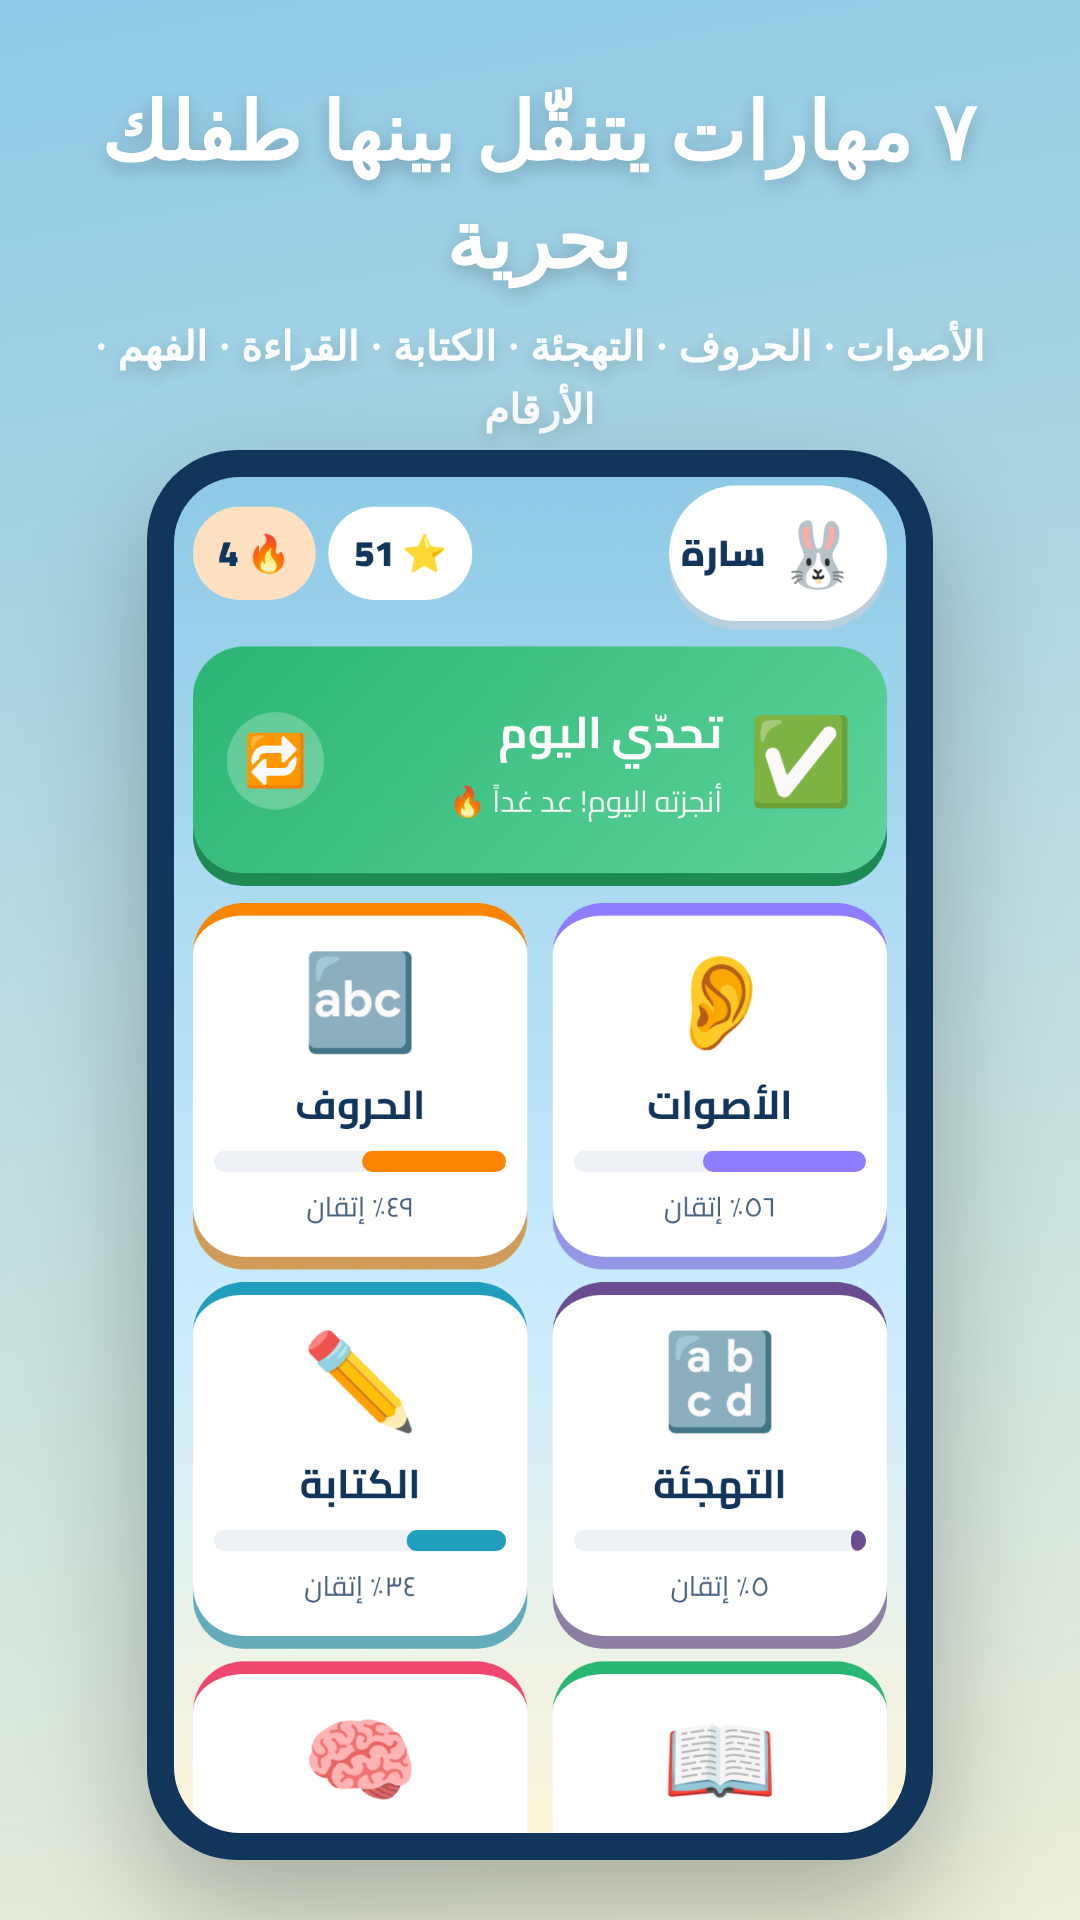
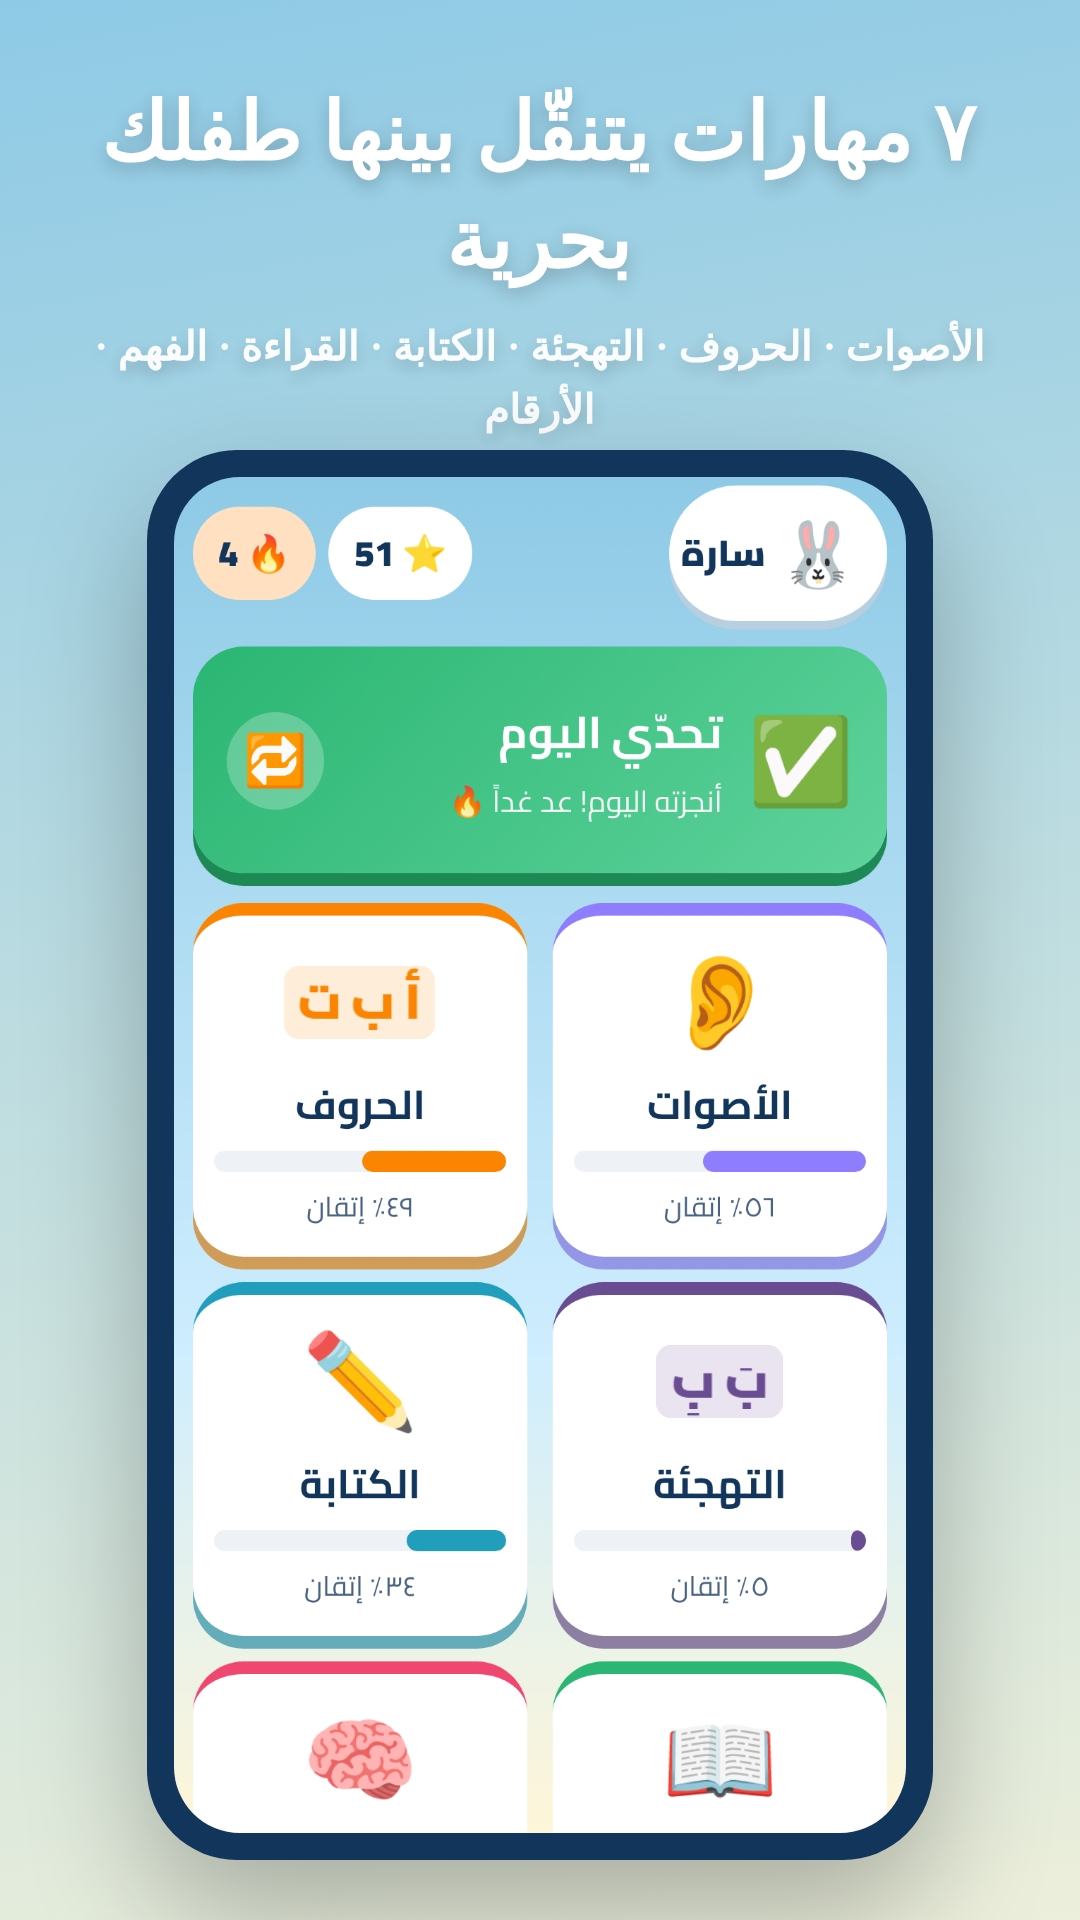
حروفي: أيقونات بحروف عربية لقسمي الحروف والتهجئة، وتصحيح لقطات المتجر
- إيموجي 🔤 و🔡 يظهر على أندرويد بحروف لاتينية (abc)، فاستُبدل بأيقونات
  من حروف عربية بلون القسم: «أ ب ت» للحروف، «بَ بِ» للتهجئة،
  «ـهـ» لأشكال الحرف، «كَتَبَ» لاقرأ المشكول
- تقرير الأهل يستخدم أيقونة قسم الحروف في عنوان خريطة الحروف
- رفع إصدار عامل الخدمة
- لقطتا المتجر العربيتان 01 و07 بالأيقونات الجديدة
- لقطة المتجر الإنجليزية 01: الفاصل «·» بجانب «٣» كان يُقرأ «٣٠»،
  فصار العنوان «٧ مهارات و٣ فئات عمرية، من ٣ إلى ١٢ سنة»
- وصف المتجر العربي: 🧩 و🗣 بدل 🔤 و🔡

Changed region(s): [[0.2444, 0.4688, 0.4278, 0.5625], [0.6111, 0.6875, 0.7333, 0.75]]

diff --git a/kids/js/data.js b/kids/js/data.js
@@ -161,6 +161,9 @@ export const SENTENCES = [
 //  age: all = للجميع، big = للكبار (6–8) فقط
 //  prefixes: مفاتيح الإتقان التي تُحسب ضمن هذه المهارة، target: عدد العناصر لاعتبارها متقنة 100٪
 // ============================================================
+// أيقونة من حروف عربية: إيموجي الحروف (🔤 🔡) تُرسم بحروف لاتينية على الجوال
+const G = (t) => `<span class="glyph">${t}</span>`;
+
 export const SKILLS = [
   {
     id: "sounds", icon: "👂", name: "الأصوات", color: "#8e7dff",
@@ -175,7 +178,7 @@ export const SKILLS = [
     ]
   },
   {
-    id: "letters", icon: "🔤", name: "الحروف", color: "#fb8500",
+    id: "letters", icon: G("أ ب ت"), name: "الحروف", color: "#fb8500",
     goal: "يتعرّف على أشكال الحروف وأسمائها ويميّز بين المتشابه منها",
     prefixes: ["rec:", "dot:", "frm:"], target: 45,
     activities: [
@@ -184,7 +187,7 @@ export const SKILLS = [
       { id: "letters2", type: "letters", title: "حروف 2", desc: "من الدال إلى الضاد", range: [7, 15], icon: "🌿", age: "all" },
       { id: "letters3", type: "letters", title: "حروف 3", desc: "من الطاء إلى الياء", range: [15, 28], icon: "🌳", age: "all" },
       { id: "similar", type: "similar", title: "حروف متشابهة", desc: "انتبه للنقاط!", icon: "🔍", age: "all" },
-      { id: "forms", type: "forms", title: "أشكال الحرف", desc: "الحرف في أول الكلمة ووسطها وآخرها", icon: "🔤", age: "big" },
+      { id: "forms", type: "forms", title: "أشكال الحرف", desc: "الحرف في أول الكلمة ووسطها وآخرها", icon: G("ـهـ"), age: "big" },
       { id: "memoryForms", type: "memory", mode: "form", title: "ذاكرة الأشكال", desc: "طابق الحرف مع شكله", icon: "🃏", age: "big" }
     ]
   },
@@ -536,7 +539,7 @@ export const SPELL_LESSONS = [
 
 // إضافة قسم التهجئة بعد قسم الحروف
 SKILLS.splice(2, 0, {
-  id: "spelling", icon: "🔡", name: "التهجئة", color: "#6a4c93",
+  id: "spelling", icon: G("بَ بِ"), name: "التهجئة", color: "#6a4c93",
   goal: "يتعلّم طريقة التهجئة خطوة بخطوة: الحركات، المدود، السكون، المقاطع، التنوين، الشدّة، ثم الكلمة كاملة",
   prefixes: ["hs:", "md:", "sk:", "syl:", "tn:", "sh:", "lam:", "tj:", "dict:"], target: 60,
   activities: [
@@ -557,7 +560,7 @@ SKILLS.splice(2, 0, {
 {
   const reading = SKILLS.find((s) => s.id === "reading");
   reading.activities = reading.activities.filter((a) => a.id !== "harakat");
-  reading.activities.unshift({ id: "readVowel", type: "spell", mode: "readVowel", title: "اقرأ المشكول", desc: "اقرأ الكلمة بحركاتها واختر صورتها", icon: "🔤", age: "big" });
+  reading.activities.unshift({ id: "readVowel", type: "spell", mode: "readVowel", title: "اقرأ المشكول", desc: "اقرأ الكلمة بحركاتها واختر صورتها", icon: G("كَتَبَ"), age: "big" });
   reading.prefixes.push("rv:");
   ACTIVITIES.length = 0;
   ACTIVITIES.push(...SKILLS.flatMap((sk) => sk.activities.map((a) => ({ ...a, skill: sk.id }))));

diff --git a/kids/css/style.css b/kids/css/style.css
@@ -487,6 +487,10 @@ h3 { margin: 22px 4px 8px; font-size: 18px; }
 }
 .skill-card:active { transform: translateY(4px); box-shadow: 0 2px 0 color-mix(in srgb, var(--c) 55%, #000 10%); }
 .sk-icon { font-size: 44px; line-height: 1.2; }
+/* أيقونة من حروف عربية بدل الإيموجي (انظر G في data.js) */
+.glyph { display: inline-block; padding: 0.05em 0.25em; border-radius: 0.3em; font-family: "Cairo", sans-serif; font-weight: 900; font-size: 0.85em; line-height: 1.25; white-space: nowrap; vertical-align: middle; color: var(--c, var(--ink)); background: color-mix(in srgb, var(--c, var(--orange)) 15%, #fff); }
+.sk-icon .glyph { font-size: 0.6em; padding: 0.12em 0.3em; }
+.num .glyph { font-size: 0.75em; padding: 0; background: none; }
 .skill-card b { font-size: 19px; }
 .skill-card small { font-size: 13px; color: var(--muted); }
 .meter { display: block; width: 100%; height: 10px; border-radius: 999px; background: #eef2f6; overflow: hidden; }

diff --git a/kids/sw.js b/kids/sw.js
@@ -2,7 +2,7 @@
 // غيّر رقم الإصدار عند إضافة ملفات جديدة
 // كل تطبيق له بادئة خاصة (العربي والإنجليزي على نفس الموقع)، ولا يحذف إلا نسخه القديمة
 const PREFIX = "huroofi-v";
-const CACHE = PREFIX + "20";
+const CACHE = PREFIX + "21";
 const FILES = [
   "./", "index.html", "manifest.json", "icon.svg",
   "css/style.css", "css/lang.css",

diff --git a/kids/js/parents.js b/kids/js/parents.js
@@ -140,7 +140,7 @@ function screenReport(back) {
           </div>`).join("")}
       </div>
 
-      <h3>🔤 خريطة الحروف</h3>
+      <h3>${SKILLS.find((s) => s.id === "letters").icon} خريطة الحروف</h3>
       <div class="panel">
         <div class="letter-grid">
           ${statuses.map((s) => `<button class="lg ${s.cls}" data-l="${s.L.l}" title="${s.L.name}: ${s.label}">${s.L.l}</button>`).join("")}

diff --git a/README.md b/README.md
@@ -25,8 +25,8 @@ node scripts/build-english.mjs   # لبناء تطبيق الإنجليزية ف
 | القسم | ماذا ينمّي | الأنشطة |
 |---|---|---|
 | 👂 الأصوات | الوعي الصوتي قبل القراءة | اسمع واختر · نفس الصوت · أول صوت · ذاكرة الأصوات · آخر صوت* |
-| 🔤 الحروف | التعرّف البصري على الحروف | لوحة الحروف · حروف 1، 2، 3 · حروف متشابهة · أشكال الحرف* · ذاكرة الأشكال* |
-| 🔡 التهجئة | طريقة التهجئة خطوة بخطوة | دليل التهجئة · 1 الحركات القصيرة · 2 المدود · 3 السكون* · 4 المقاطع* · 5 التنوين* · 6 الشدّة* · 7 ال الشمسية والقمرية* · 8 تهجَّ الكلمة* · 9 الإملاء* |
+| أ ب ت الحروف | التعرّف البصري على الحروف | لوحة الحروف · حروف 1، 2، 3 · حروف متشابهة · أشكال الحرف* · ذاكرة الأشكال* |
+| بَ بِ التهجئة | طريقة التهجئة خطوة بخطوة | دليل التهجئة · 1 الحركات القصيرة · 2 المدود · 3 السكون* · 4 المقاطع* · 5 التنوين* · 6 الشدّة* · 7 ال الشمسية والقمرية* · 8 تهجَّ الكلمة* · 9 الإملاء* |
 | ✏ الكتابة | كتابة الحروف والكلمات باليد، وبناء الكلمات بالضغط على الحروف | **بالإصبع:** ارسم الحروف · ارسم الأرقام · اكتب الكلمة · اكتب اسمك · من الذاكرة* · اسمع واكتب الحرف* — **بالضغط على الحروف:** كلمتي الأولى · ركّب الكلمة* · كلمات أطول* · رتّب الحروف* · لوحة الحروف* · إملاء بلوحة الحروف* |
 | 📖 القراءة | قراءة الكلمات* | اقرأ المشكول · اقرأ واختر · مكان الحرف · صيد الحرف · ذاكرة الكلمات |
 | 🧠 الفهم واللغة | المعاني والتصنيف والاستنتاج | مفرداتي (11 موضوعاً) · الأضداد · صنّف الأشياء · من أنا؟* · اقرأ الجملة* · رتّب القصة* · قصص قصيرة* |
@@ -38,8 +38,8 @@ node scripts/build-english.mjs   # لبناء تطبيق الإنجليزية ف
 | القسم | اللعبة | المهارة |
 |---|---|---|
 | 👂 الأصوات | فقاعات الأصوات | فقّع الصور التي تبدأ بالصوت المطلوب |
-| 🔤 الحروف | اضرب الخُلد | اضرب الخُلد الذي يحمل الحرف (مع حروف متشابهة كمشتّتات) |
-| 🔡 التهجئة | قطار المقاطع | اربط عربات المقاطع بالترتيب لينطلق القطار بالكلمة |
+| أ ب ت الحروف | اضرب الخُلد | اضرب الخُلد الذي يحمل الحرف (مع حروف متشابهة كمشتّتات) |
+| بَ بِ التهجئة | قطار المقاطع | اربط عربات المقاطع بالترتيب لينطلق القطار بالكلمة |
 | ✏ الكتابة | طريق الحرف | قُد السيارة على طريق الحرف بإصبعك، مع المرور على النقاط |
 | 📖 القراءة | سباق الكلمات* | اضغط السيارة التي تحمل اسم الصورة قبل أن تعبر |
 | 🧠 الفهم واللغة | سلال التصنيف | اسحب كل شيء إلى سلّته (أو اضغط عليه ثم على السلة) |

diff --git a/store/README.md b/store/README.md
@@ -39,8 +39,8 @@
 
 🎯 سبع مهارات، يتنقّل بينها طفلك بحرية
 👂 الأصوات: يميّز أصوات الكلمات بالسمع، وهي الخطوة الأولى قبل القراءة
-🔤 الحروف: أشكال الحروف وأسماؤها، والتمييز بين المتشابه منها (ب ت ث)
-🔡 التهجئة: الطريقة المتدرجة كاملة: الحركات، المدود، السكون، المقاطع، التنوين، الشدّة، ال الشمسية والقمرية
+🧩 الحروف: أشكال الحروف وأسماؤها، والتمييز بين المتشابه منها (ب ت ث)
+🗣 التهجئة: الطريقة المتدرجة كاملة: الحركات، المدود، السكون، المقاطع، التنوين، الشدّة، ال الشمسية والقمرية
 ✏ الكتابة: يكتب الحروف والكلمات بإصبعه مع عرض متحرك لاتجاه الكتابة الصحيح، ويبني الكلمات حرفاً حرفاً
 📖 القراءة: يقرأ الكلمات المشكولة ويجد الحروف داخلها
 🧠 الفهم واللغة: 174 كلمة في 11 موضوعاً، الأضداد، التصنيف، الأحجيات، وقصص قصيرة مع أسئلة فهم
